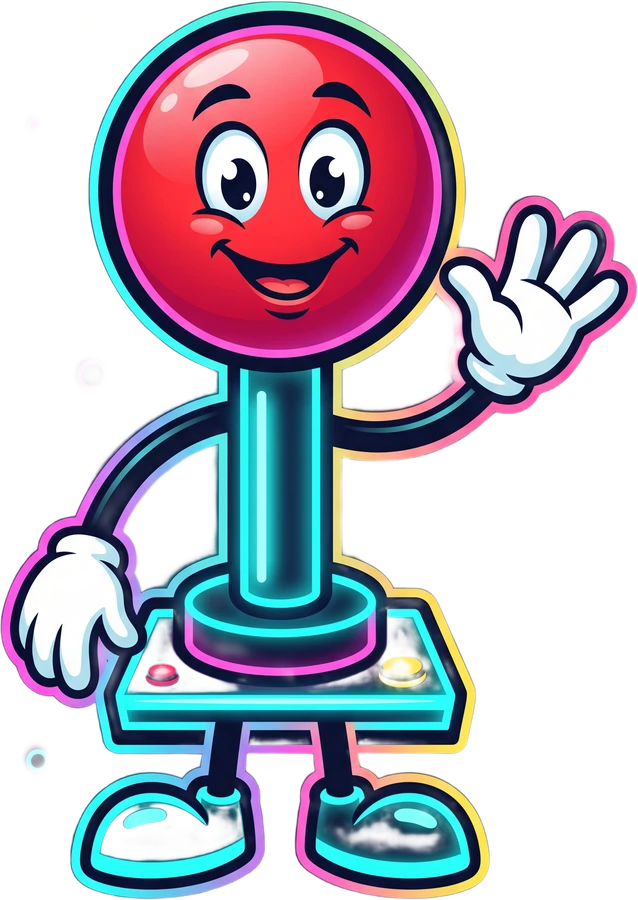
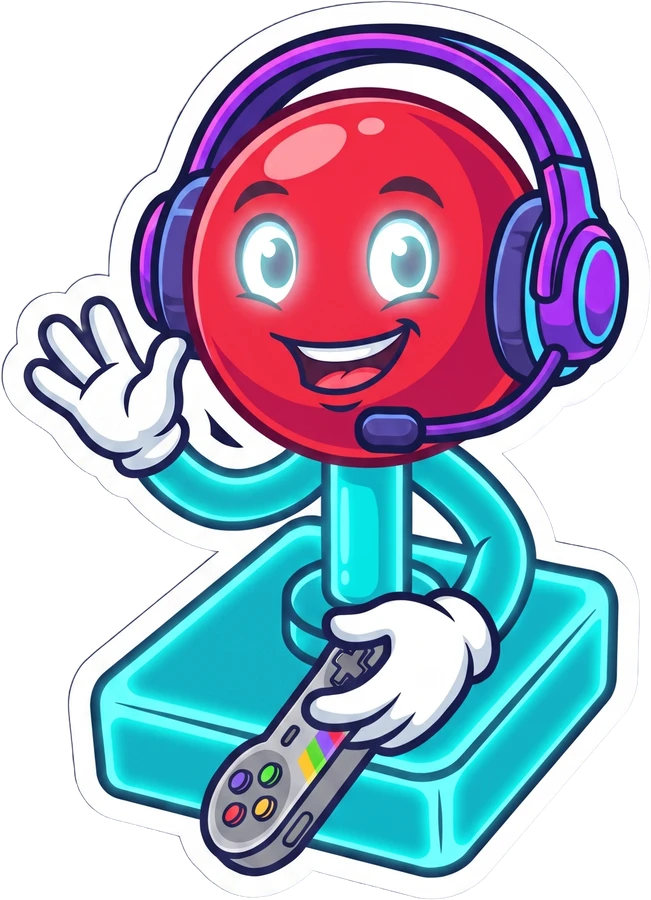
feat: Gamer mascot (headset + controller, waving) on the loading screen
Chosen from the character candidates: the Gamer variant of the joystick
mascot, waving hello — replaces the previous waving joystick cutout.

Claude-Session: https://claude.ai/code/session_016tcDduUsk6dnH3AdAh9uLe

diff --git a/retro-arcade/src/screens/SplashScreen.tsx b/retro-arcade/src/screens/SplashScreen.tsx
@@ -5,8 +5,9 @@ import { PixelText } from '../components/PixelText';
 
 /**
  * In-app loading screen (shown while fonts/language/session initialize):
- * the Retro Arcade mascot — the joystick from the app logo come to life,
- * red ball head, glowing cyan body, waving — gently bobbing and rocking
+ * the Retro Arcade mascot — the Gamer, the joystick from the app logo come
+ * to life wearing a neon gaming headset, controller in one glove, waving
+ * hello with the other — gently bobbing and rocking
  * above "Loading..." and a chunky segmented progress bar. The bar is
  * indeterminate (fills in a loop) since startup is fast and unmeasured.
  * Text is plain "LOADING" because i18n isn't initialized yet on the first
